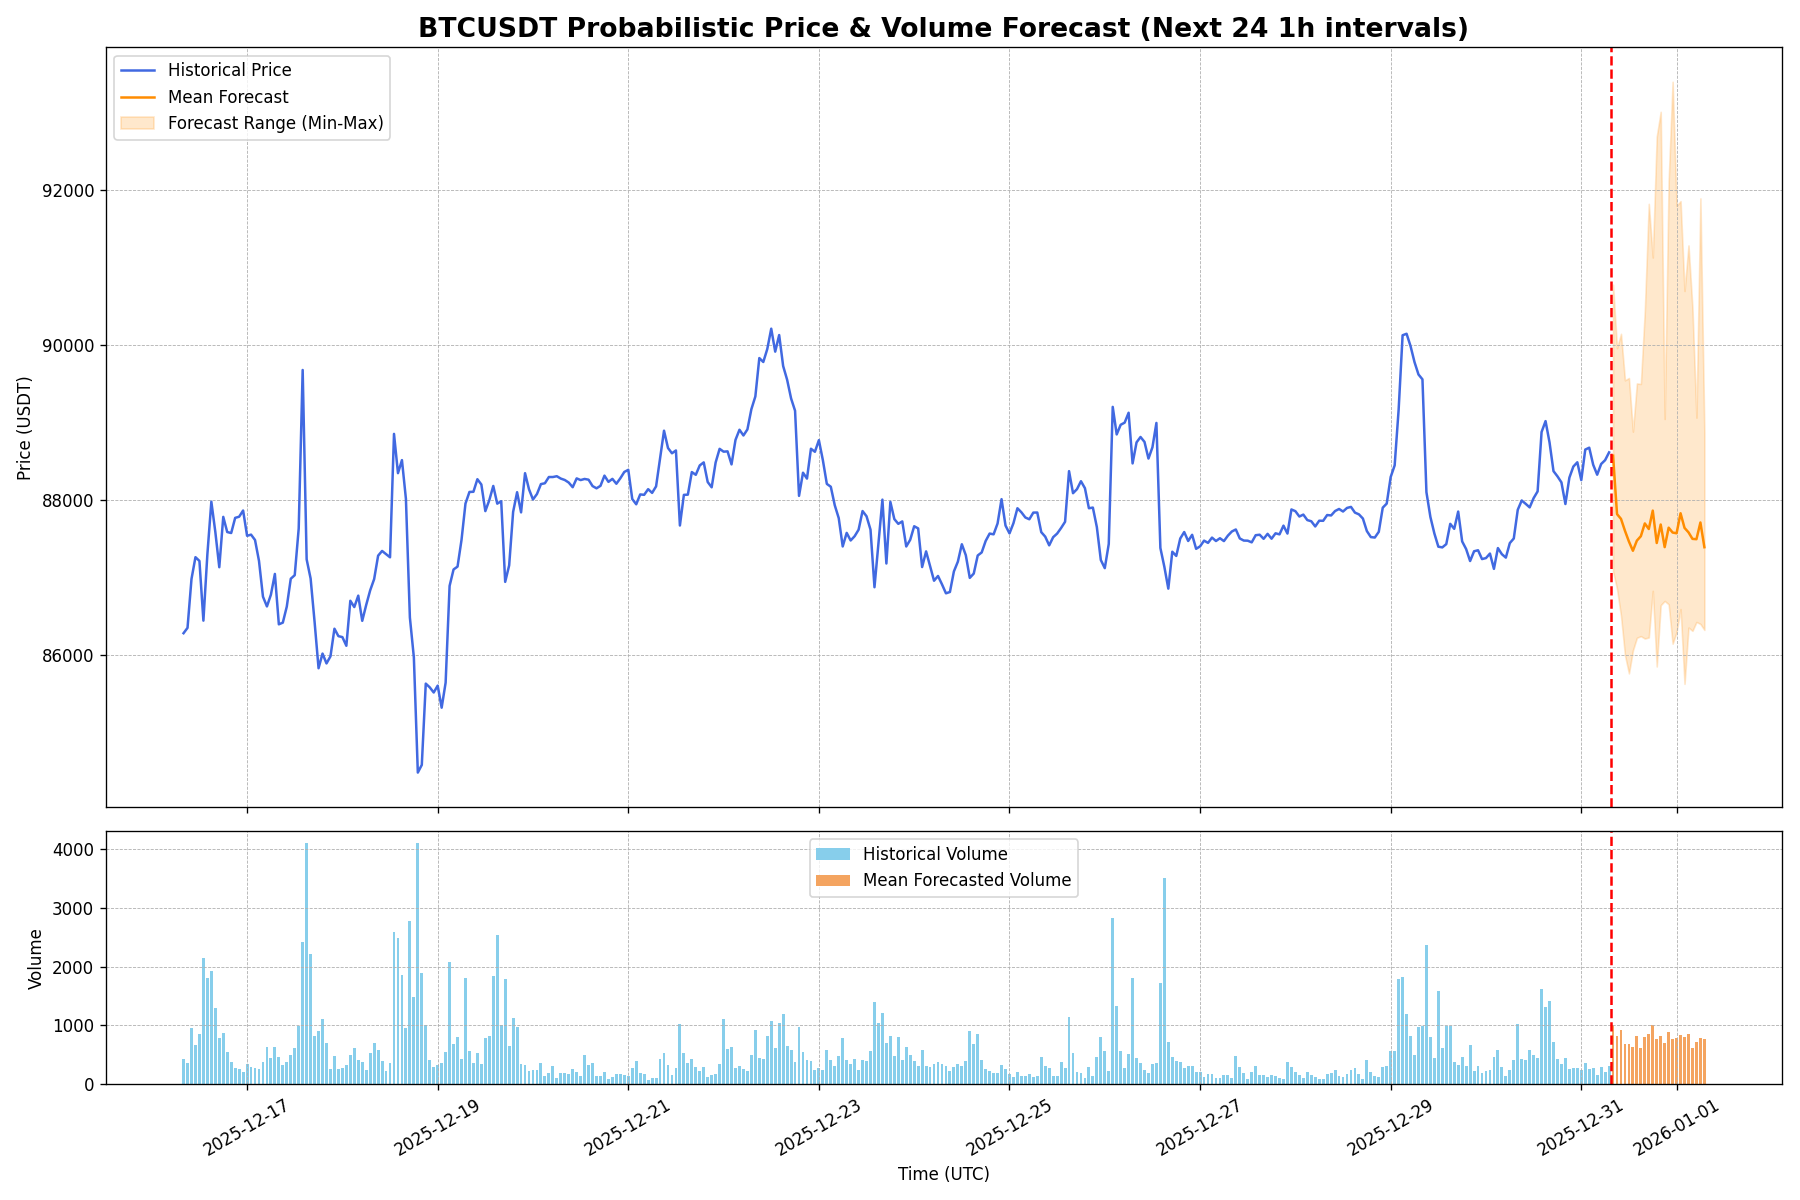
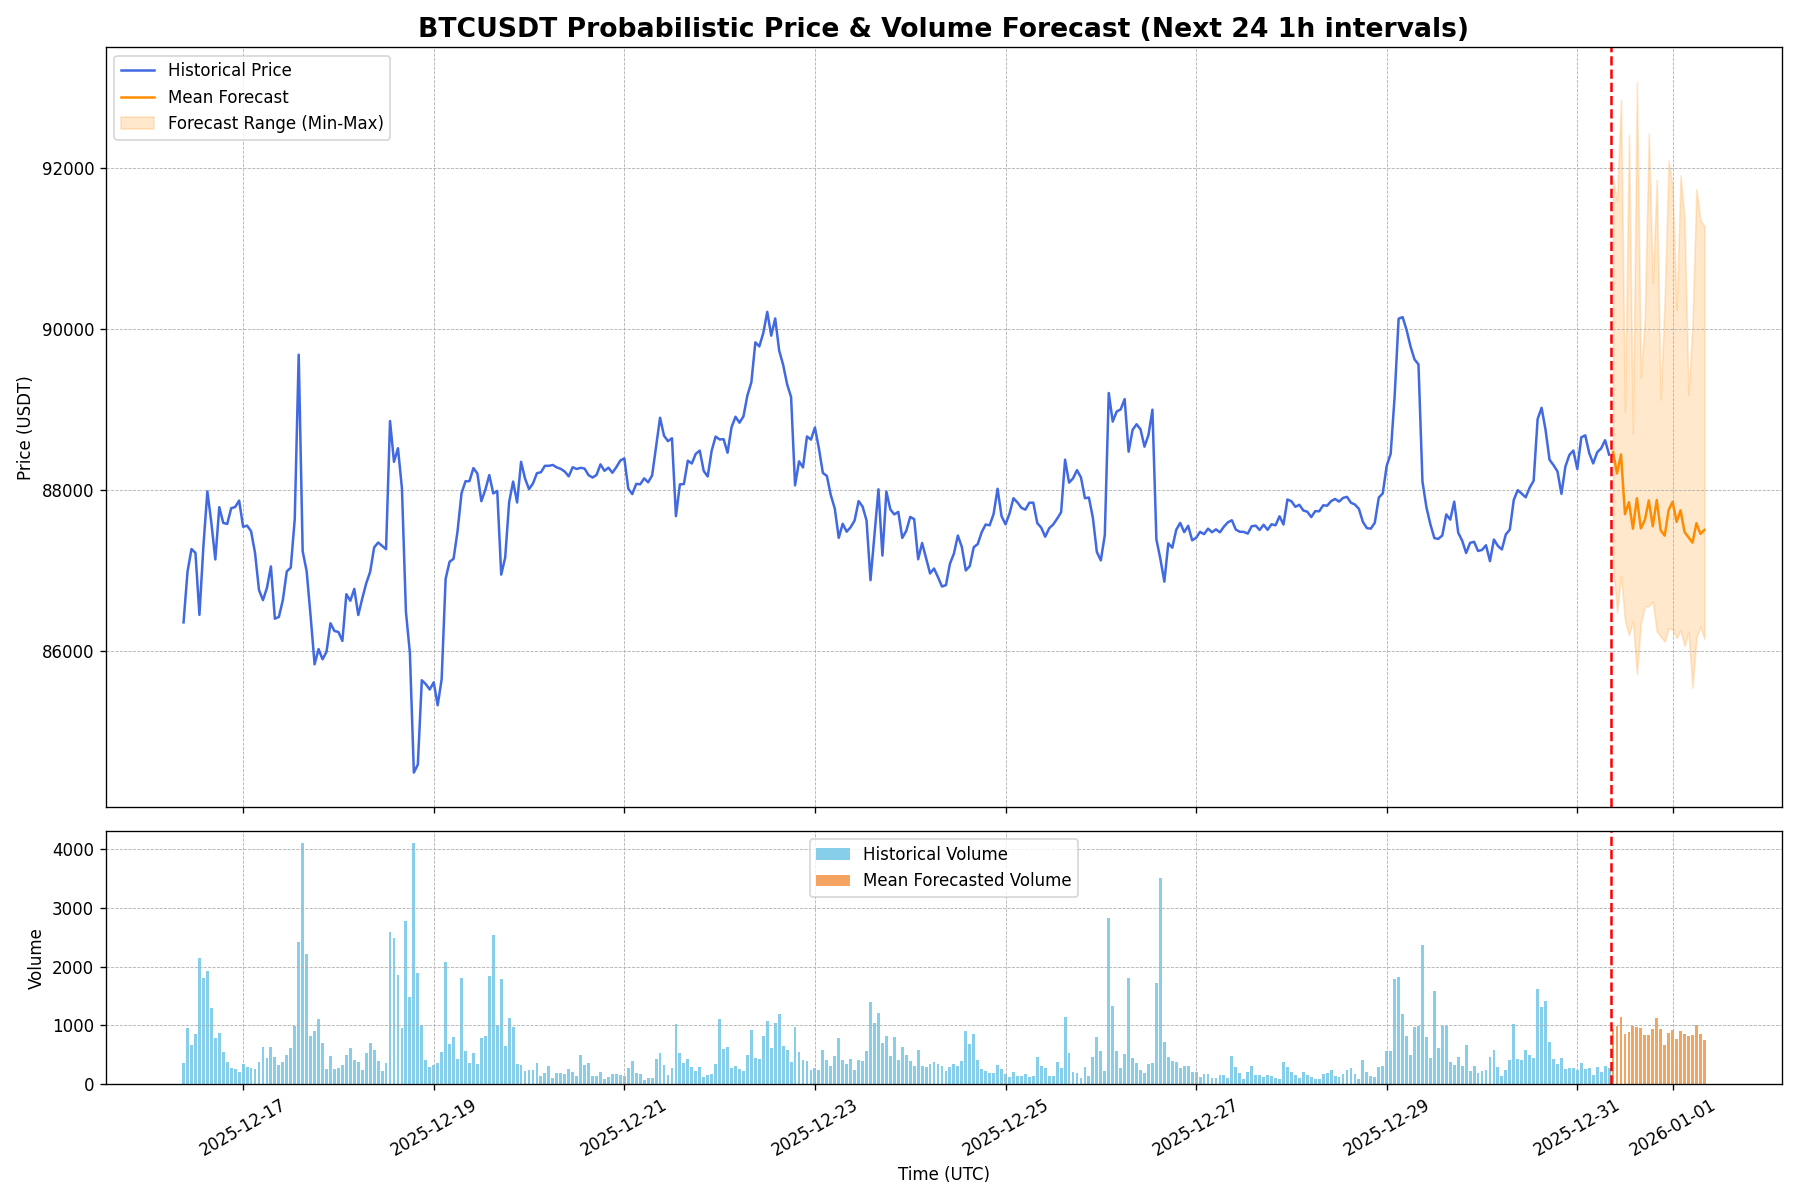
Auto-update forecast for 2025-12-31 09:09 UTC

diff --git a/index.html b/index.html
@@ -26,7 +26,7 @@
              <div>
                  <div class="update-time">
                      <span class="status-indicator"></span>
-                     <span data-i18n="lastUpdate">最后更新时间:</span> <strong id="update-time">2025-12-31 08:09:28</strong>
+                     <span data-i18n="lastUpdate">最后更新时间:</span> <strong id="update-time">2025-12-31 09:09:26</strong>
                  </div>
                  <div class="data-source"><span data-i18n="dataSource">数据来源:</span> Binance</div>
              </div>
